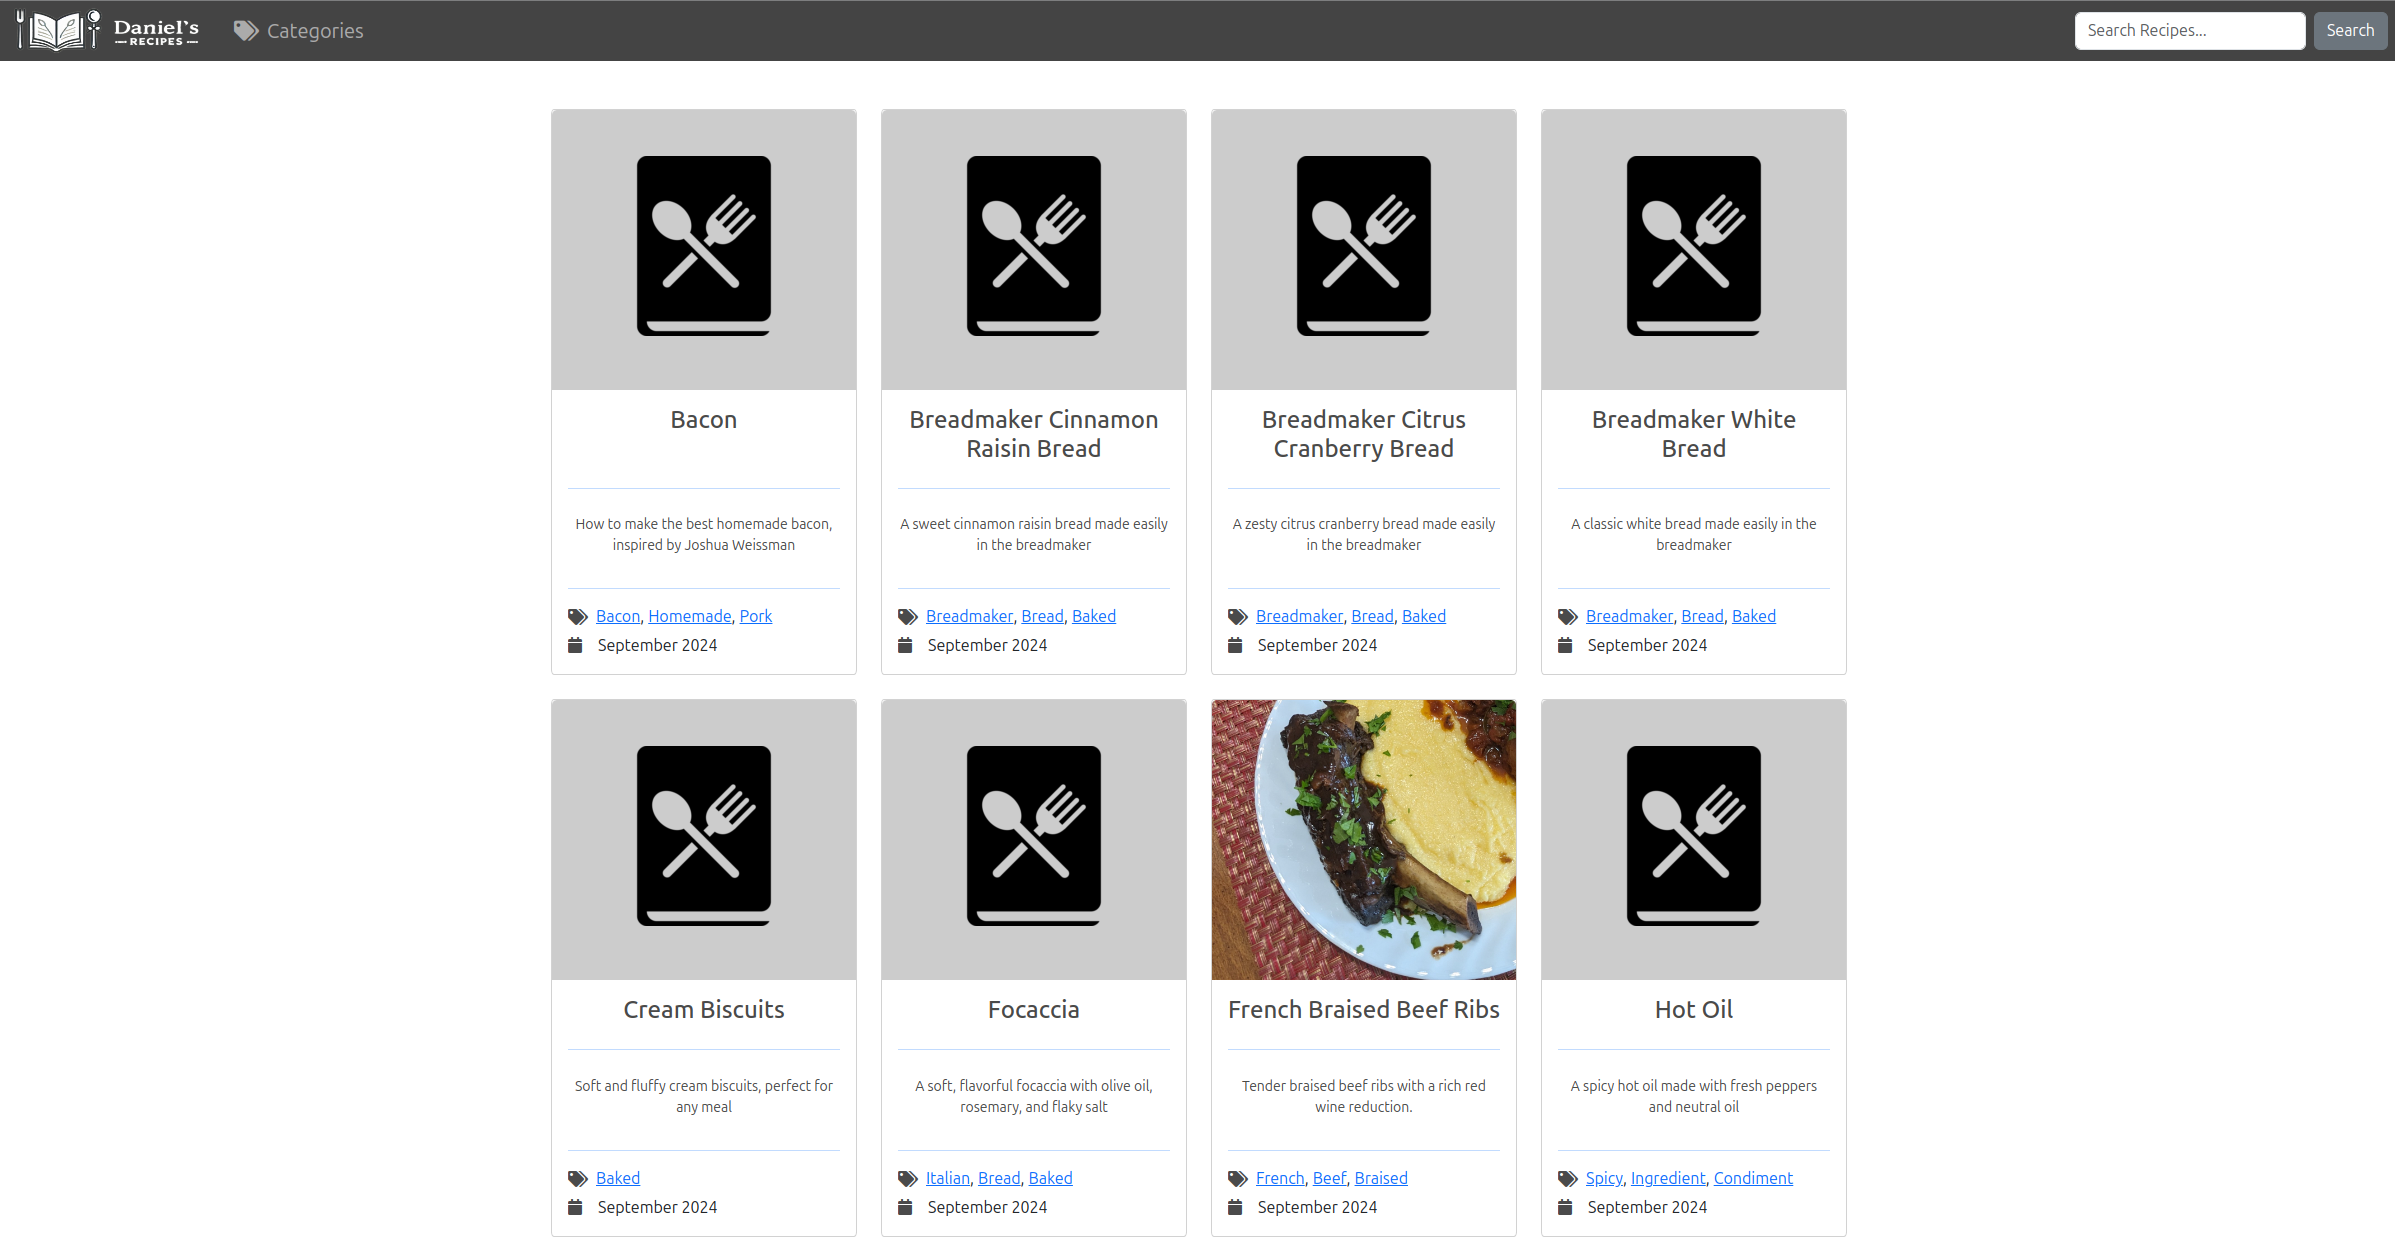
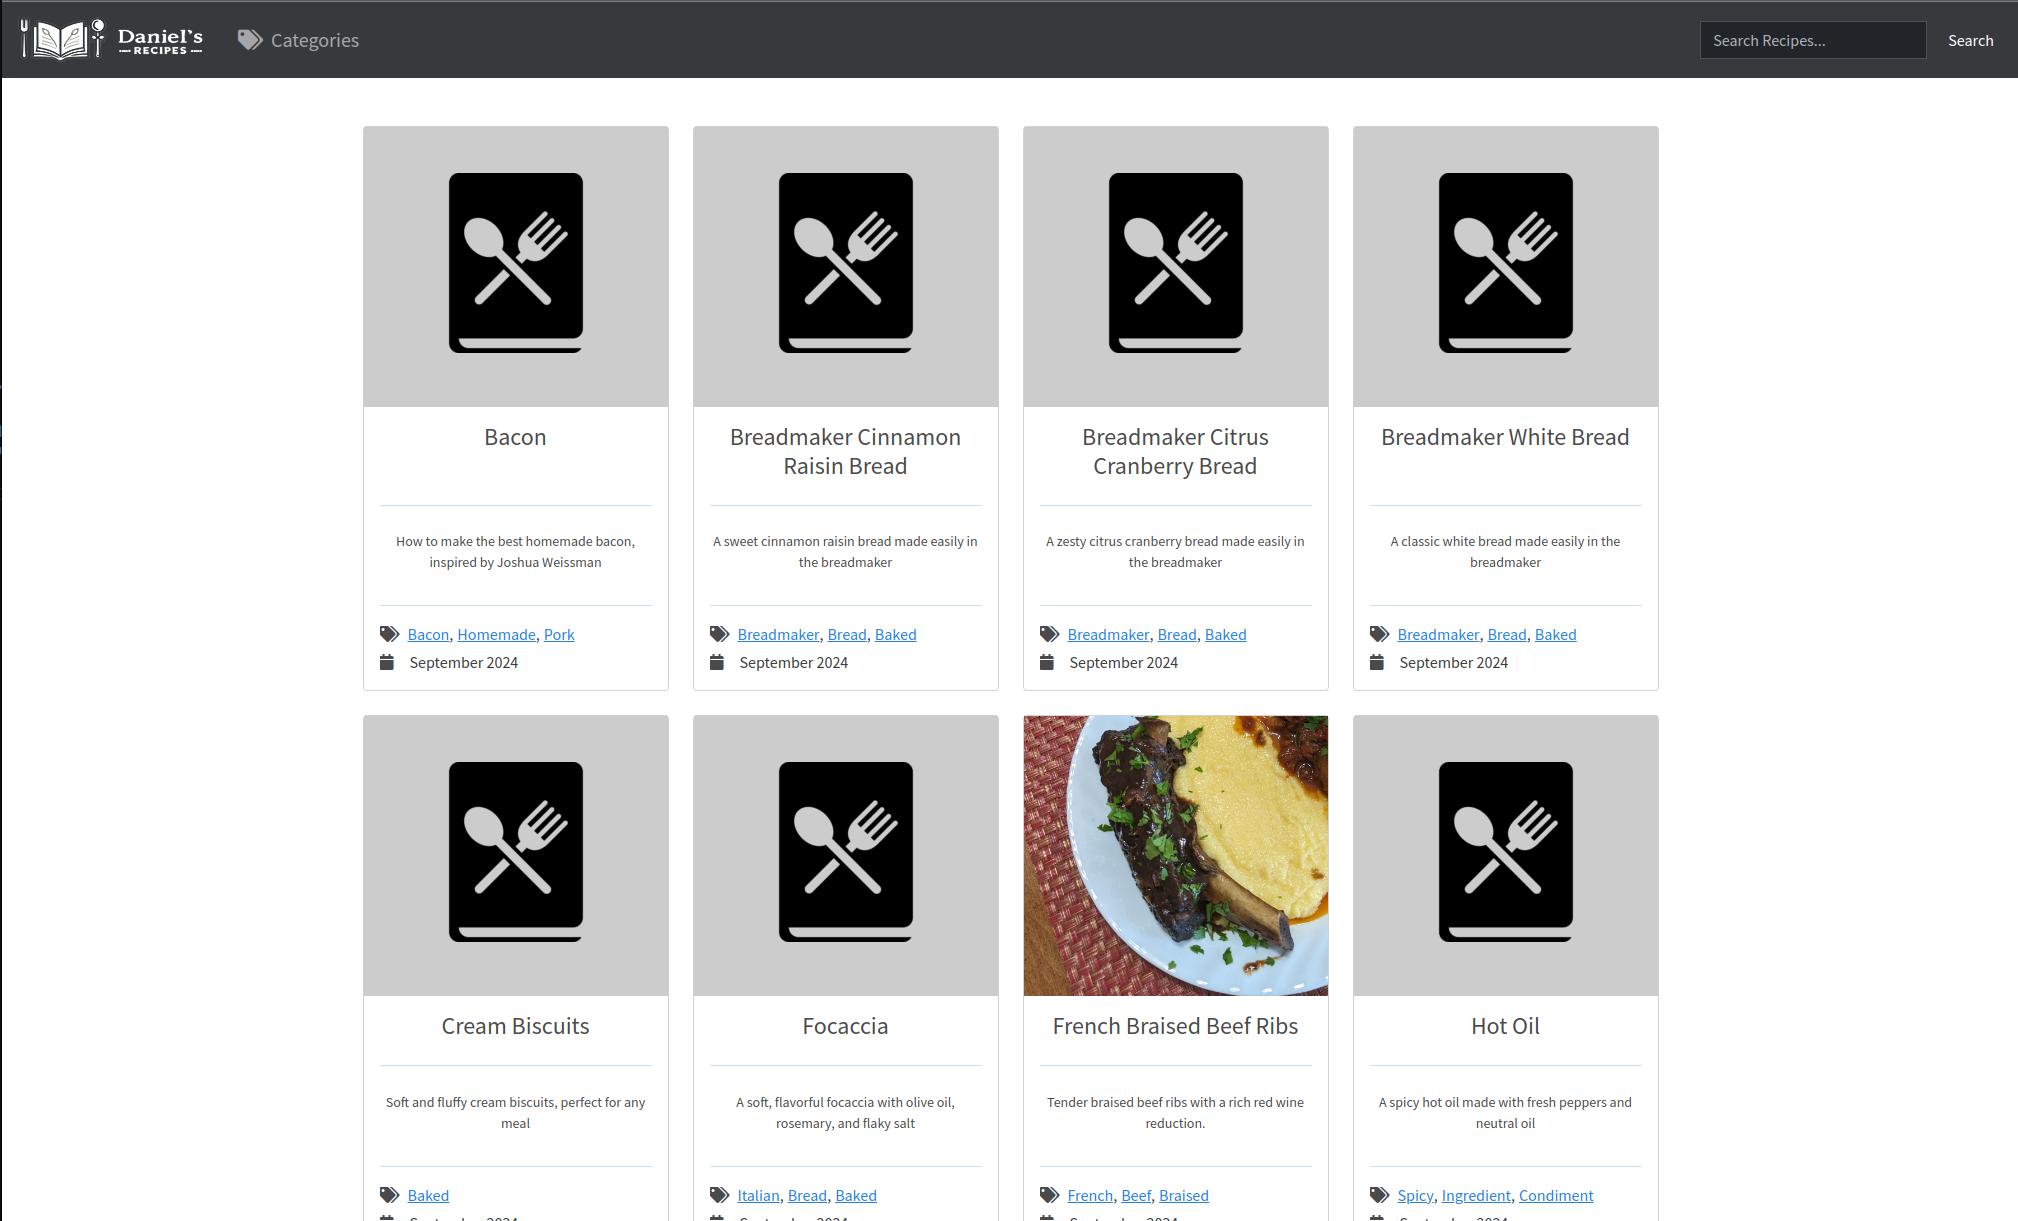
Update pictures and readme following bootswatch theme changes.

Changed region(s): [[0.0, 0.0, 1.0, 1.0]]

diff --git a/README.md b/README.md
@@ -46,6 +46,19 @@ Copy `default.md` from `themes/cookbook/archetypes/default.md` to `archetypes` a
 
 This will ensure that any new content you create will be of type `recipe`.
 
+## Change Bootswatch theme
+
+To change to a different Bootswatch theme, go to https://bootswatch.com/ and pick your desired theme. In `/themes/cookbook/layouts/partials/printhead.html` and `/themes/cookbook/layouts/partials/head.html`, change the Bootswatch CDN to your desired theme's CDN. For example:
+
+```
+    <link href="https://cdn.jsdelivr.net/npm/bootswatch@5.3.3/dist/cosmo/bootstrap.min.css" rel="stylesheet">
+```
+will become
+```
+    <link href="https://cdn.jsdelivr.net/npm/bootswatch@5.3.3/dist/quartz/bootstrap.min.css" rel="stylesheet">
+```
+It's as simple as that!
+
 ## First Recipe
 
 Simply run `hugo new recipe_name.md` to create your new recipe in the `content` folder.  Modify the markdown file as required for your new recipe.
@@ -59,3 +72,7 @@ Simply run `hugo new recipe_name.md` to create your new recipe in the `content` 
 ## Print Views of the Site
 
 ![Recipe Example](images/tn2.png)
+
+## Print Views of the Site
+
+![Search Results](images/search_results.png)
